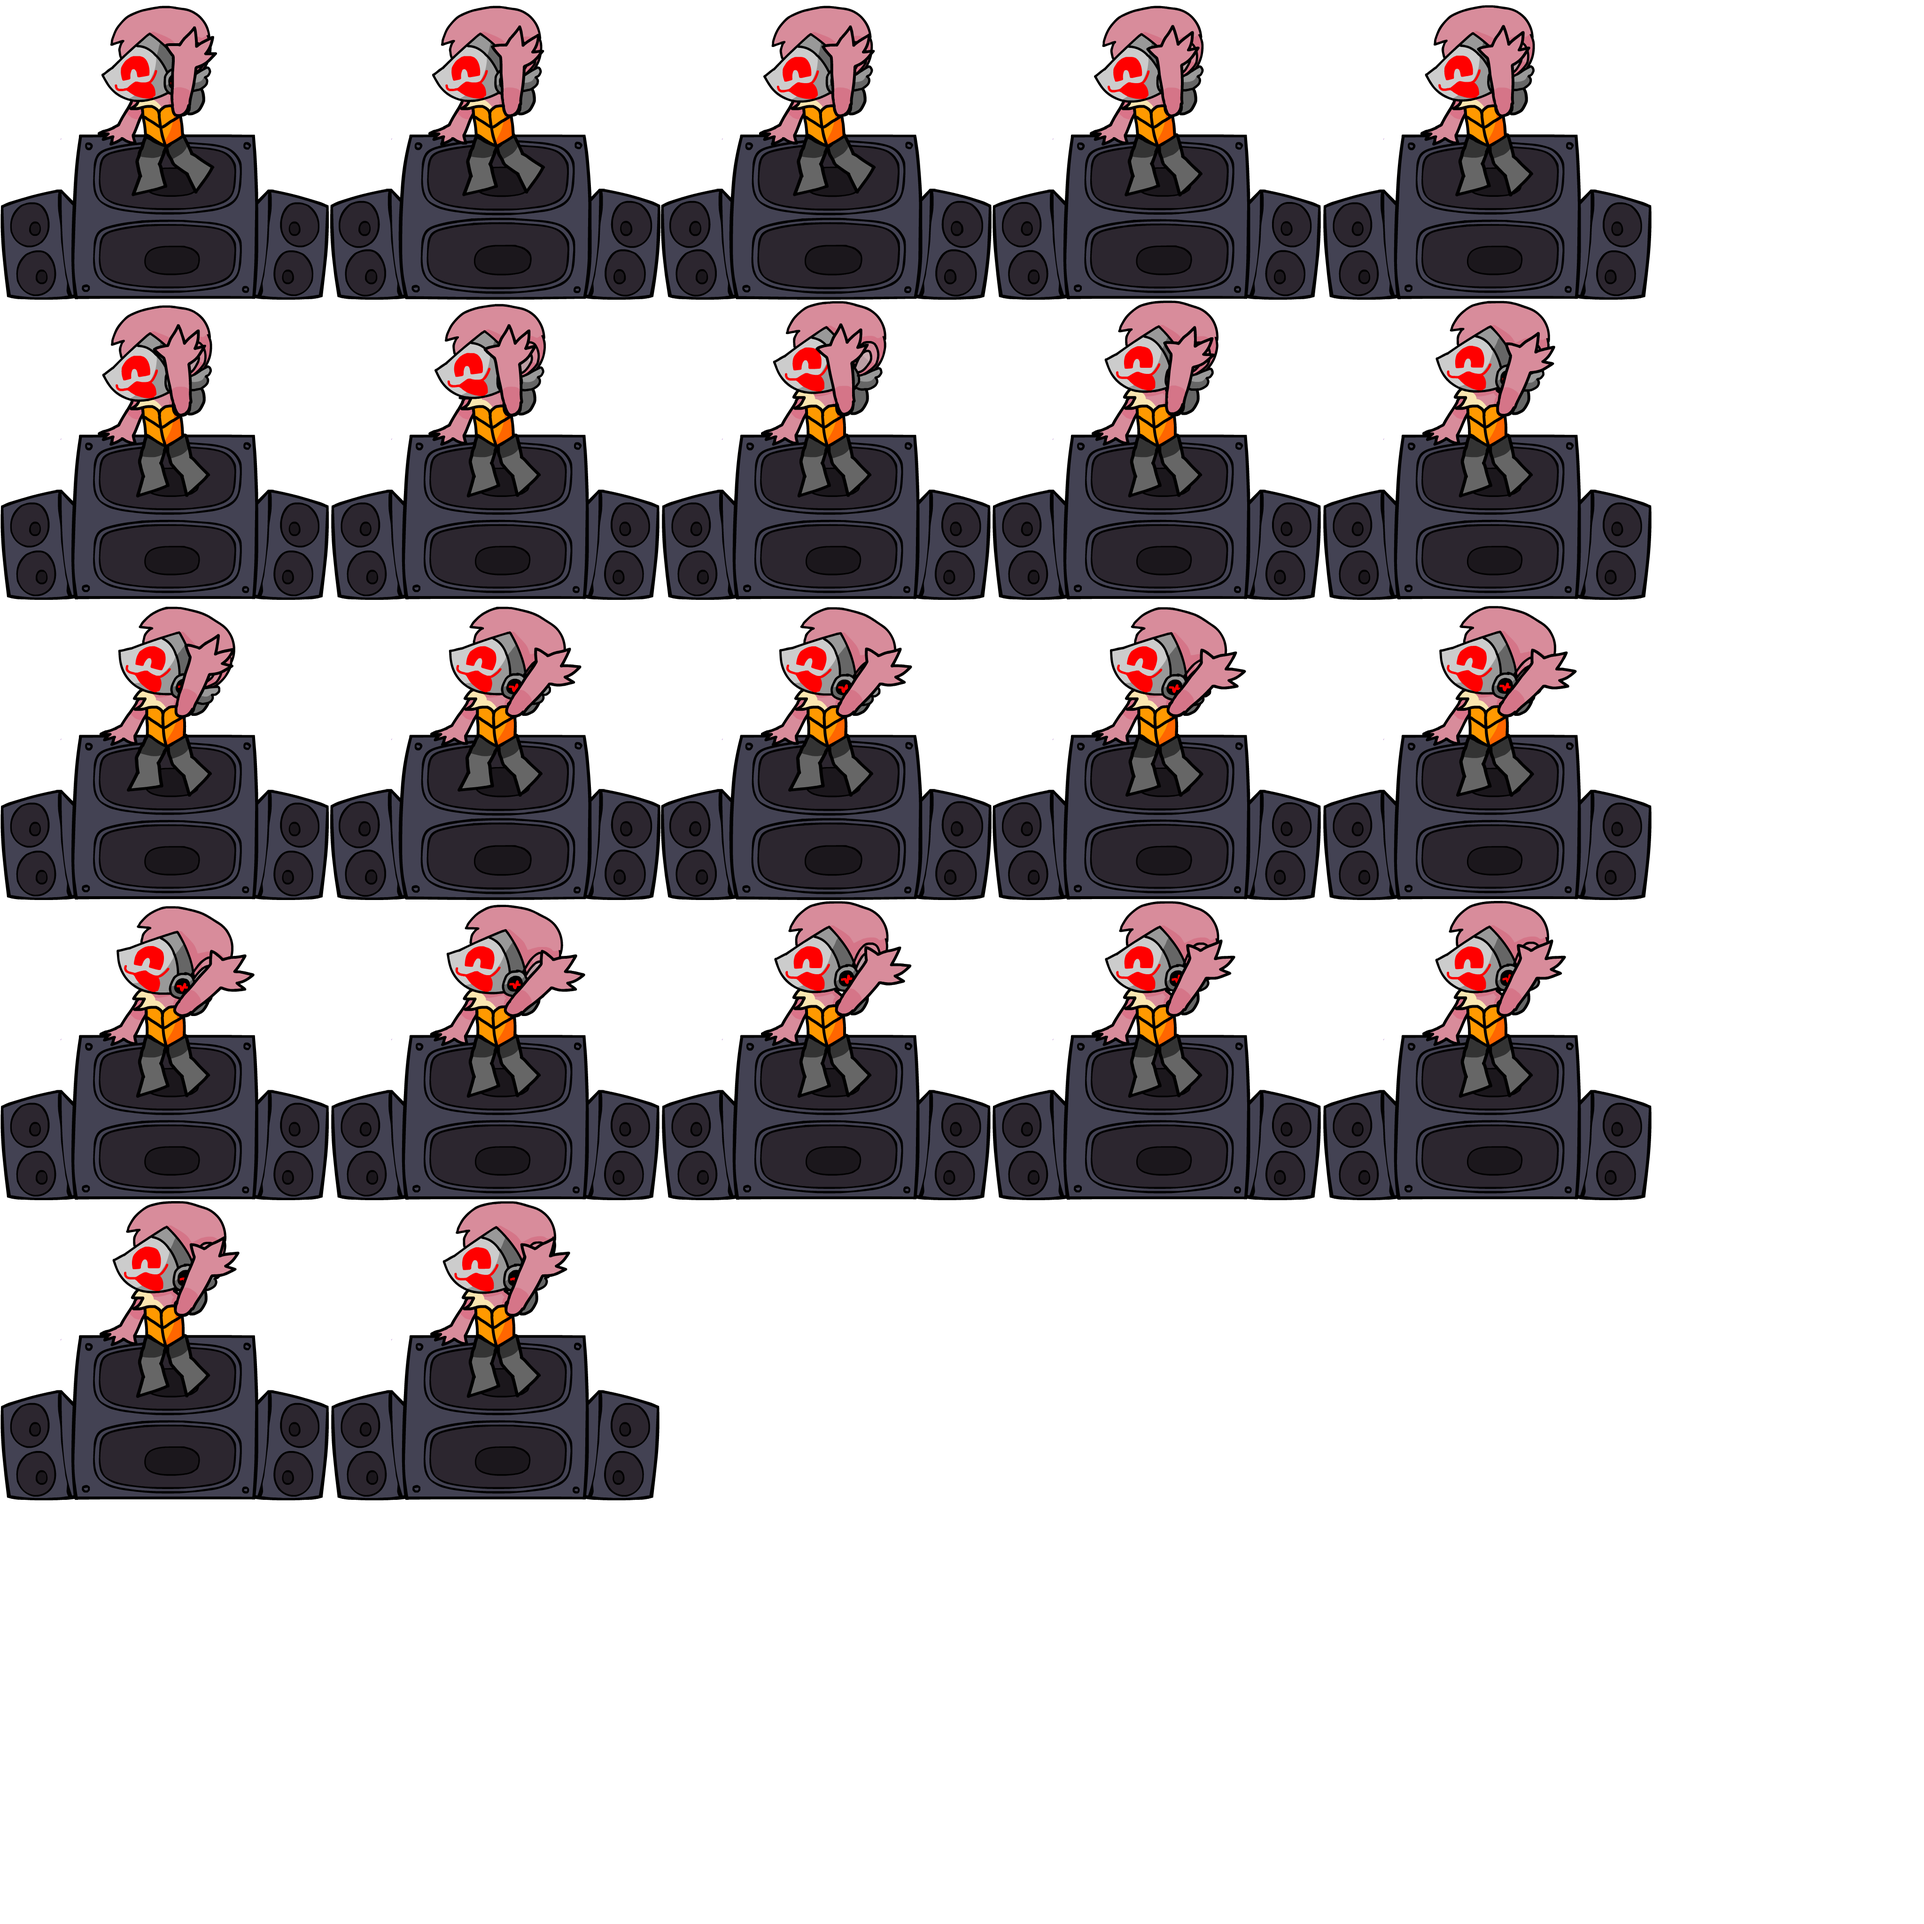
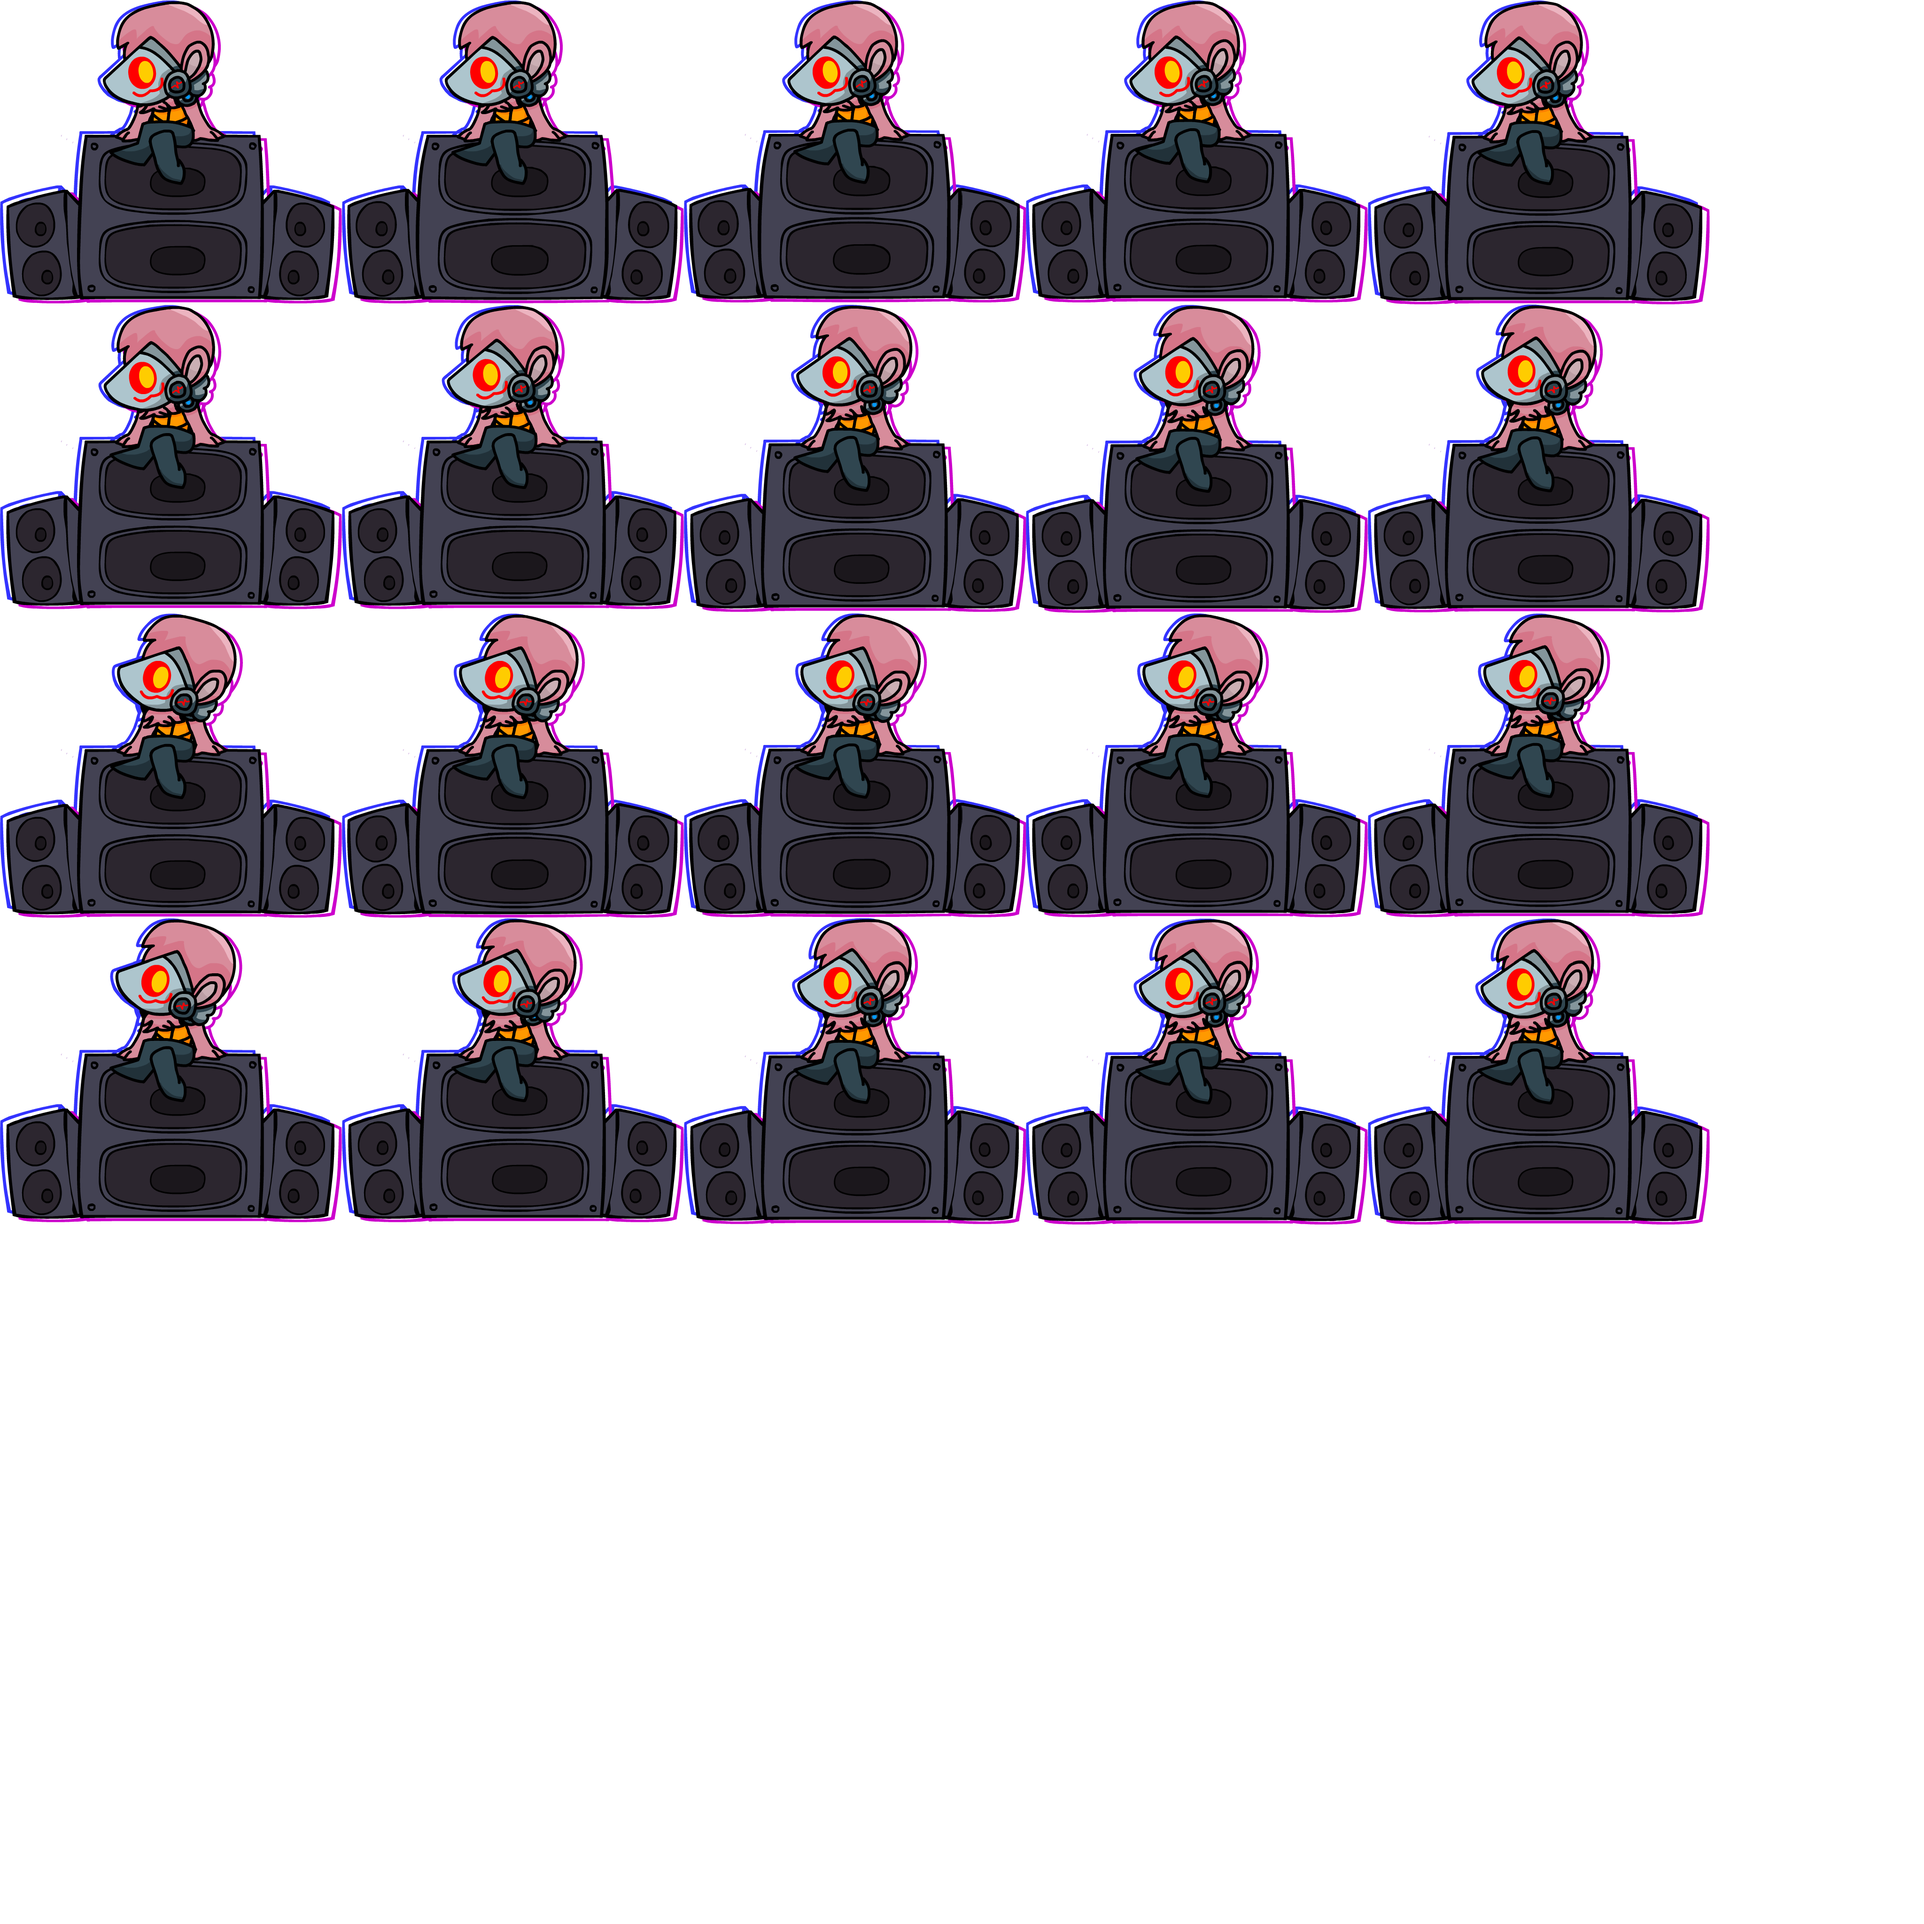
LONG LOST PLEXI TITLE SPRITESHEET!!!!!
HOLY SHIT THIS WAS ON A RANDOM ASS SSD LMAO

Changed region(s): [[0.0, 0.0, 0.9062, 0.7812]]

diff --git a/art/changelog.md b/art/changelog.md
@@ -59,6 +59,7 @@ and this project adheres to [Semantic Versioning](https://semver.org/spec/v2.0.0
 - removed all the dumb old ass assets
 - removed most of the songs
 - updated Triple Trouble
+- Better Plexi Title Asset
 
 
 # VS Char Legacy Changelog -- Before the Rehaul!
